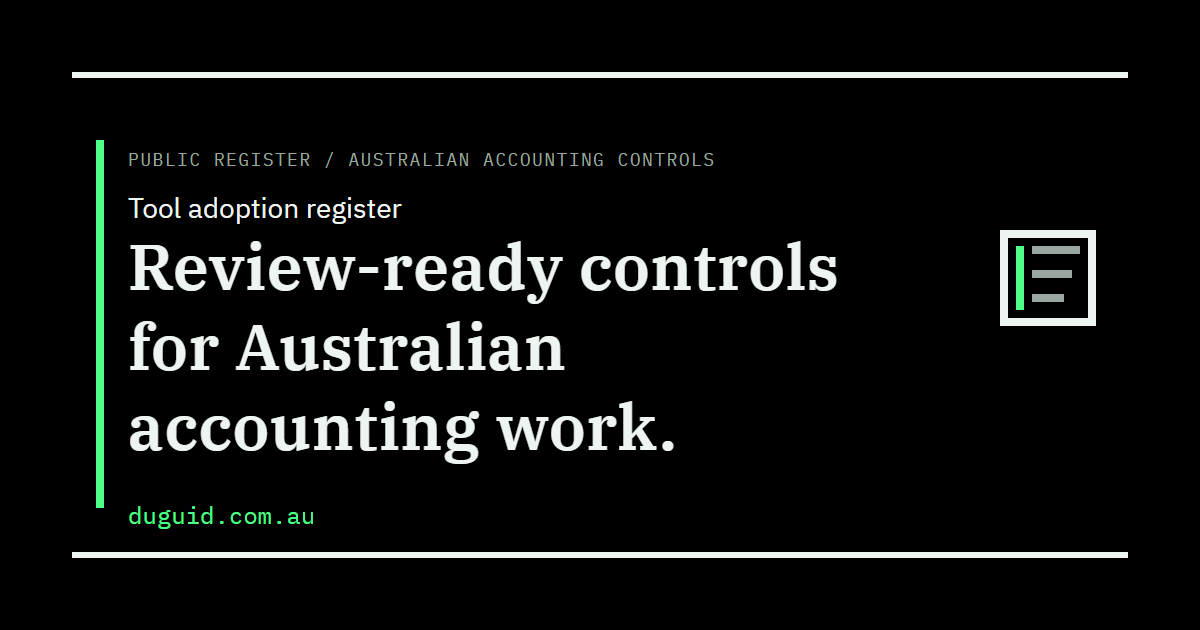
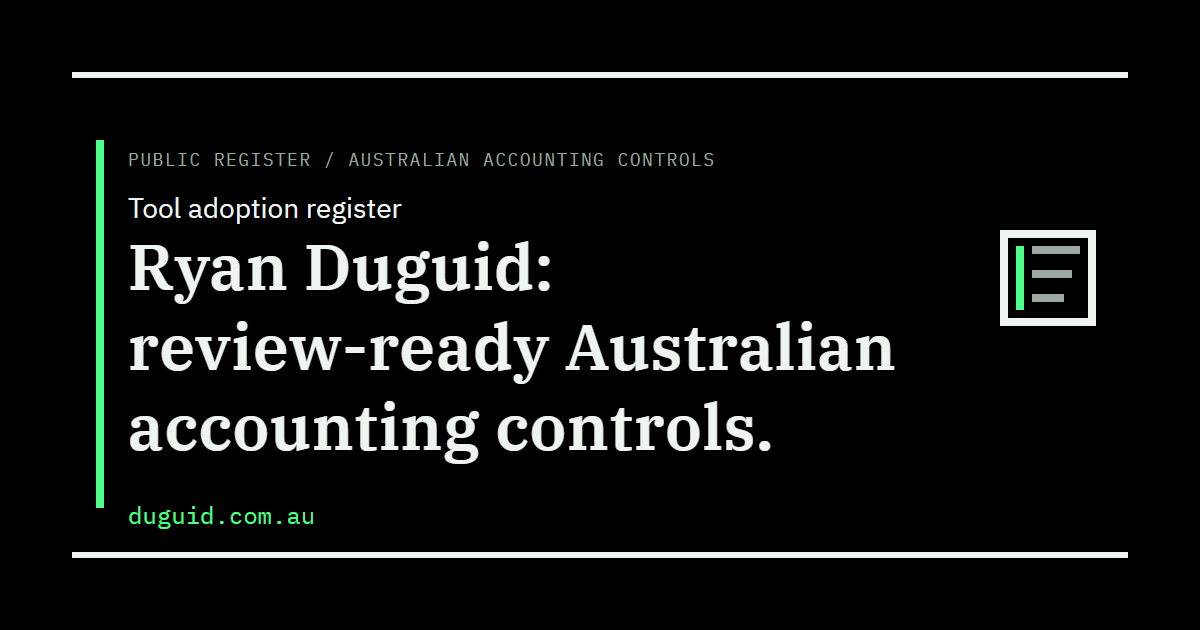
Match the site social card to the new homepage H1 (#81)
The site social card heading now reads Ryan Duguid: / review-ready Australian / accounting controls., with the alt text repeating it. The card is re-rendered with the pinned Playwright Chromium and its SHA-256 recorded in the README provenance row; the four pages using the card carry the new alt text and About, Changelog and Contact are dated 5 September 2026 with matching JSON-LD and sitemap dates; contracts, digests and llms-full.txt follow.

Changed region(s): [[0.0925, 0.5127, 0.74, 0.6032], [0.1233, 0.3619, 0.7092, 0.4825], [0.4008, 0.6333, 0.6475, 0.7238]]

diff --git a/changelog/index.html b/changelog/index.html
@@ -16,14 +16,14 @@
   <meta property="og:url" content="https://duguid.com.au/changelog/" />
   <meta property="og:image" content="https://duguid.com.au/assets/social-card-site.png" />
   <meta property="og:image:type" content="image/png" />
-  <meta property="og:image:alt" content="OLED register card: Review-ready controls for Australian accounting work." />
+  <meta property="og:image:alt" content="OLED register card: Ryan Duguid: review-ready Australian accounting controls." />
   <meta property="og:image:width" content="1200" />
   <meta property="og:image:height" content="630" />
   <meta name="twitter:card" content="summary_large_image" />
   <meta name="twitter:title" content="Site and release changelog | Ryan Duguid" />
   <meta name="twitter:description" content="Dated register of site changes and tagged tool releases across the open-source Australian accounting portfolio." />
   <meta name="twitter:image" content="https://duguid.com.au/assets/social-card-site.png" />
-  <meta name="twitter:image:alt" content="OLED register card: Review-ready controls for Australian accounting work." />
+  <meta name="twitter:image:alt" content="OLED register card: Ryan Duguid: review-ready Australian accounting controls." />
   <link rel="canonical" href="https://duguid.com.au/changelog/" />
   <link rel="icon" type="image/svg+xml" href="/assets/favicon.svg" />
   <link rel="icon" type="image/png" sizes="32x32" href="/assets/favicon-32.png" />
@@ -100,7 +100,7 @@
           </div>
           <p>Each release links its tagged source. The <a href="/evaluate/">evaluations</a> record which releases were tested against fabricated inputs, and the <a href="/evidence/">evidence register</a> records identity, source and release assurance.</p>
         </section>
-        <p class="page-meta">Published 30 August 2026. Last reviewed 4 September 2026.</p>
+        <p class="page-meta">Published 30 August 2026. Last reviewed 5 September 2026.</p>
       </div>
     </article>
   </main>
@@ -135,7 +135,7 @@
         "description": "Dated register of site changes and tagged tool releases across the open-source Australian accounting portfolio.",
         "inLanguage": "en-AU",
         "datePublished": "2026-08-30",
-        "dateModified": "2026-09-04",
+        "dateModified": "2026-09-05",
         "isPartOf": { "@id": "https://duguid.com.au/#website" },
         "author": { "@id": "https://duguid.com.au/about/#person" },
         "publisher": { "@id": "https://duguid.com.au/about/#person" }

diff --git a/about/index.html b/about/index.html
@@ -16,14 +16,14 @@
   <meta property="og:url" content="https://duguid.com.au/about/" />
   <meta property="og:image" content="https://duguid.com.au/assets/social-card-site.png" />
   <meta property="og:image:type" content="image/png" />
-  <meta property="og:image:alt" content="OLED register card: Review-ready controls for Australian accounting work." />
+  <meta property="og:image:alt" content="OLED register card: Ryan Duguid: review-ready Australian accounting controls." />
   <meta property="og:image:width" content="1200" />
   <meta property="og:image:height" content="630" />
   <meta name="twitter:card" content="summary_large_image" />
   <meta name="twitter:title" content="About Ryan Duguid, accountant in Newcastle NSW" />
   <meta name="twitter:description" content="Ryan Duguid is an accountant in Newcastle, NSW who builds open-source accounting tools. Owner-asserted provisional CA ANZ membership is not an endorsement." />
   <meta name="twitter:image" content="https://duguid.com.au/assets/social-card-site.png" />
-  <meta name="twitter:image:alt" content="OLED register card: Review-ready controls for Australian accounting work." />
+  <meta name="twitter:image:alt" content="OLED register card: Ryan Duguid: review-ready Australian accounting controls." />
   <link rel="canonical" href="https://duguid.com.au/about/" />
   <link rel="icon" type="image/svg+xml" href="/assets/favicon.svg" />
   <link rel="icon" type="image/png" sizes="32x32" href="/assets/favicon-32.png" />
@@ -172,7 +172,7 @@
             </p>
           </section>
 
-          <p class="page-meta">Last reviewed 4 September 2026.</p>
+          <p class="page-meta">Last reviewed 5 September 2026.</p>
           <p class="byline">
             I write and maintain this site in my own time and on my own equipment.
           </p>
@@ -211,7 +211,7 @@
         "description": "Ryan Duguid is an accountant based in Newcastle, New South Wales, Australia who builds open-source computational accounting tools. He states that he is a provisional member of Chartered Accountants ANZ. CA ANZ has not endorsed this site or its tools.",
         "inLanguage": "en-AU",
         "datePublished": "2026-08-24",
-        "dateModified": "2026-09-04",
+        "dateModified": "2026-09-05",
         "isPartOf": { "@id": "https://duguid.com.au/#website" },
         "mainEntity": { "@id": "https://duguid.com.au/about/#person" },
         "about": { "@id": "https://duguid.com.au/about/#person" },

diff --git a/contact/index.html b/contact/index.html
@@ -16,14 +16,14 @@
   <meta property="og:url" content="https://duguid.com.au/contact/" />
   <meta property="og:image" content="https://duguid.com.au/assets/social-card-site.png" />
   <meta property="og:image:type" content="image/png" />
-  <meta property="og:image:alt" content="OLED register card: Review-ready controls for Australian accounting work." />
+  <meta property="og:image:alt" content="OLED register card: Ryan Duguid: review-ready Australian accounting controls." />
   <meta property="og:image:width" content="1200" />
   <meta property="og:image:height" content="630" />
   <meta name="twitter:card" content="summary_large_image" />
   <meta name="twitter:title" content="Contact and project links | Ryan Duguid" />
   <meta name="twitter:description" content="Project links for Ryan Duguid's independently built open-source accounting tools. This personal index is not an accounting practice." />
   <meta name="twitter:image" content="https://duguid.com.au/assets/social-card-site.png" />
-  <meta name="twitter:image:alt" content="OLED register card: Review-ready controls for Australian accounting work." />
+  <meta name="twitter:image:alt" content="OLED register card: Ryan Duguid: review-ready Australian accounting controls." />
   <link rel="canonical" href="https://duguid.com.au/contact/" />
   <link rel="icon" type="image/svg+xml" href="/assets/favicon.svg" />
   <link rel="icon" type="image/png" sizes="32x32" href="/assets/favicon-32.png" />
@@ -68,7 +68,7 @@
             <tr><th scope="row">LinkedIn</th><td><a href="https://www.linkedin.com/in/ryan-duguid">linkedin.com/in/ryan-duguid</a> (hibernated)</td></tr>
           </tbody>
         </table>
-        <p class="page-meta">Published 30 August 2026. Last reviewed 2 September 2026.</p>
+        <p class="page-meta">Published 30 August 2026. Last reviewed 5 September 2026.</p>
       </div>
     </article>
   </main>
@@ -103,7 +103,7 @@
         "description": "Project links for Ryan Duguid's independently built open-source accounting tools. This personal index is not an accounting practice.",
         "inLanguage": "en-AU",
         "datePublished": "2026-08-30",
-        "dateModified": "2026-09-02",
+        "dateModified": "2026-09-05",
         "isPartOf": { "@id": "https://duguid.com.au/#website" },
         "author": { "@id": "https://duguid.com.au/about/#person" },
         "publisher": { "@id": "https://duguid.com.au/about/#person" }

diff --git a/index.html b/index.html
@@ -16,14 +16,14 @@
   <meta property="og:url" content="https://duguid.com.au/" />
   <meta property="og:image" content="https://duguid.com.au/assets/social-card-site.png" />
   <meta property="og:image:type" content="image/png" />
-  <meta property="og:image:alt" content="OLED register card: Review-ready controls for Australian accounting work." />
+  <meta property="og:image:alt" content="OLED register card: Ryan Duguid: review-ready Australian accounting controls." />
   <meta property="og:image:width" content="1200" />
   <meta property="og:image:height" content="630" />
   <meta name="twitter:card" content="summary_large_image" />
   <meta name="twitter:title" content="Ryan Duguid: open-source Australian accounting controls" />
   <meta name="twitter:description" content="Personal index of open-source Australian accounting tools for payroll, Xero, workpapers and AI workflows, with sources and working kept visible." />
   <meta name="twitter:image" content="https://duguid.com.au/assets/social-card-site.png" />
-  <meta name="twitter:image:alt" content="OLED register card: Review-ready controls for Australian accounting work." />
+  <meta name="twitter:image:alt" content="OLED register card: Ryan Duguid: review-ready Australian accounting controls." />
   <link rel="canonical" href="https://duguid.com.au/" />
   <link rel="alternate" type="text/plain" href="https://duguid.com.au/llms.txt" />
   <link rel="icon" type="image/svg+xml" href="/assets/favicon.svg" />

diff --git a/scripts/test_contracts.py b/scripts/test_contracts.py
@@ -1043,7 +1043,7 @@ def test_public_contracts() -> int:
         ),
         (
             "Twitter field",
-            '  <meta name="twitter:image:alt" content="OLED register card: Review-ready controls for Australian accounting work." />\n',
+            '  <meta name="twitter:image:alt" content="OLED register card: Ryan Duguid: review-ready Australian accounting controls." />\n',
             "",
             "expected exactly one non-empty twitter:image:alt",
         ),
@@ -1320,8 +1320,8 @@ def test_public_contracts() -> int:
         replace_file(
             root,
             "assets/social-cards.json",
-            "Review-ready controls",
-            "Review controls",
+            "review-ready Australian",
+            "review Australian",
         )
         expect_failure(
             "social card context copy",

diff --git a/scripts/site_contracts.py b/scripts/site_contracts.py
@@ -773,9 +773,9 @@ SOCIAL_CARD_CONTEXTS = {
     "site": {
         "label": "Public register / Australian accounting controls",
         "heading": [
-            "Review-ready controls",
-            "for Australian",
-            "accounting work.",
+            "Ryan Duguid:",
+            "review-ready Australian",
+            "accounting controls.",
         ],
         "host": "duguid.com.au",
         "output": "social-card-site.png",

diff --git a/README.md b/README.md
@@ -136,7 +136,7 @@ The five contexts cover the site, tools, evaluations, rates and evidence. They a
 
 | Asset | Reproducible provenance |
 | --- | --- |
[5 lines of base64/hex data omitted]

diff --git a/DESIGN.md b/DESIGN.md
@@ -333,7 +333,7 @@ The following whole-file values are frozen after normalising only platform line 
 
[4 lines of base64/hex data omitted]
 
 Rate main text is protected by a semantic visible-text digest so shared head and
 footer delivery chrome can improve without changing a rate, date, source or
